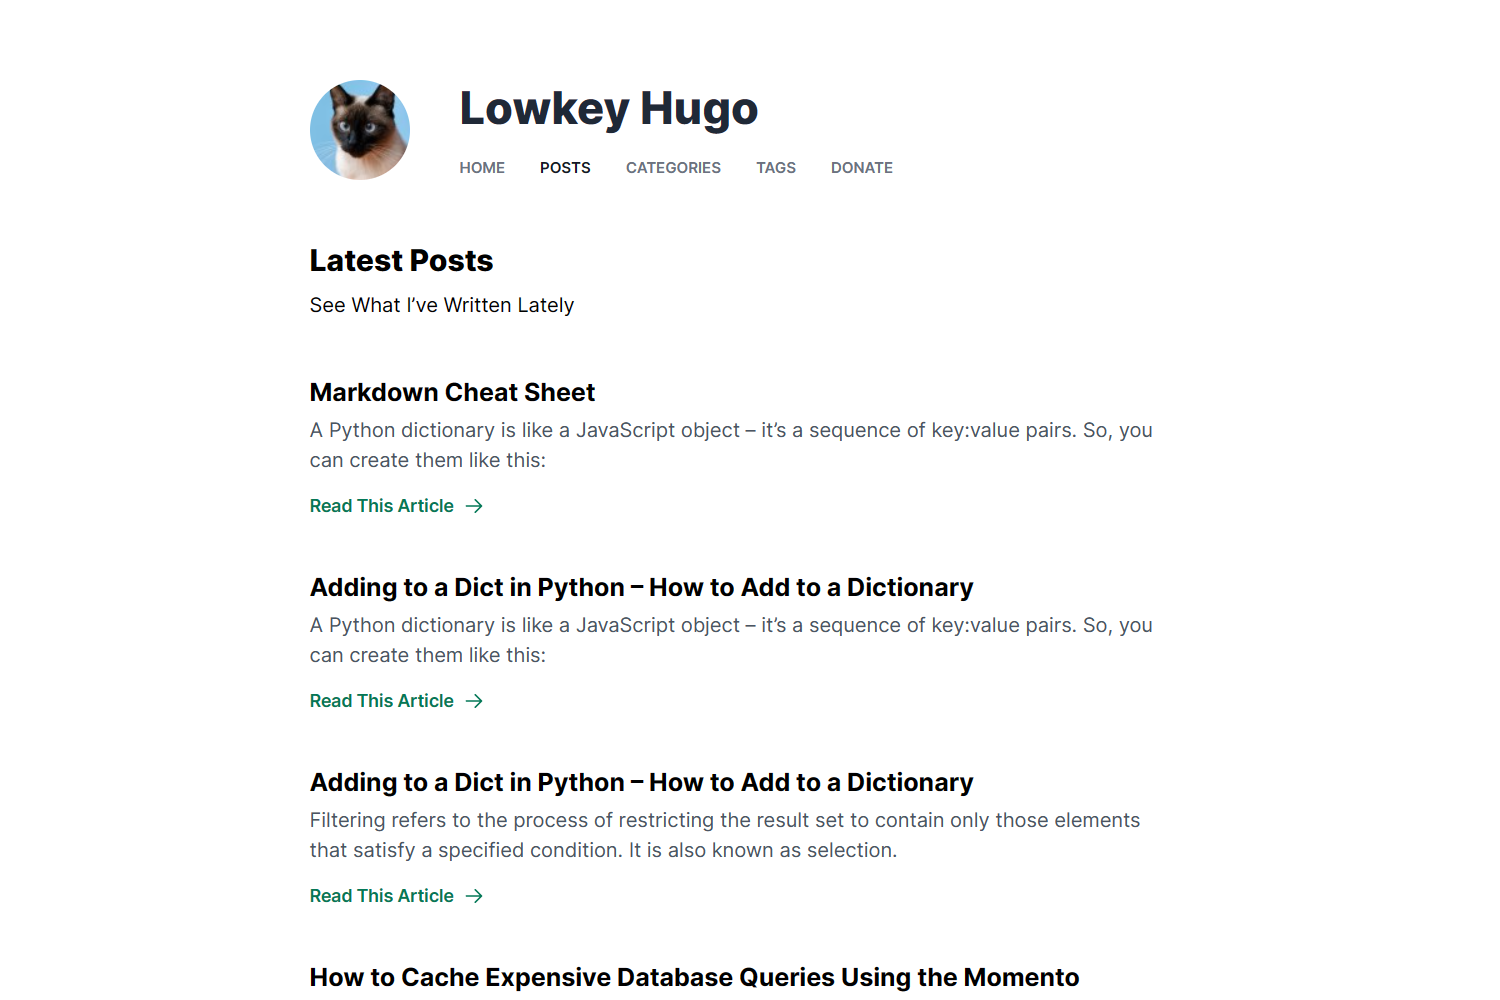
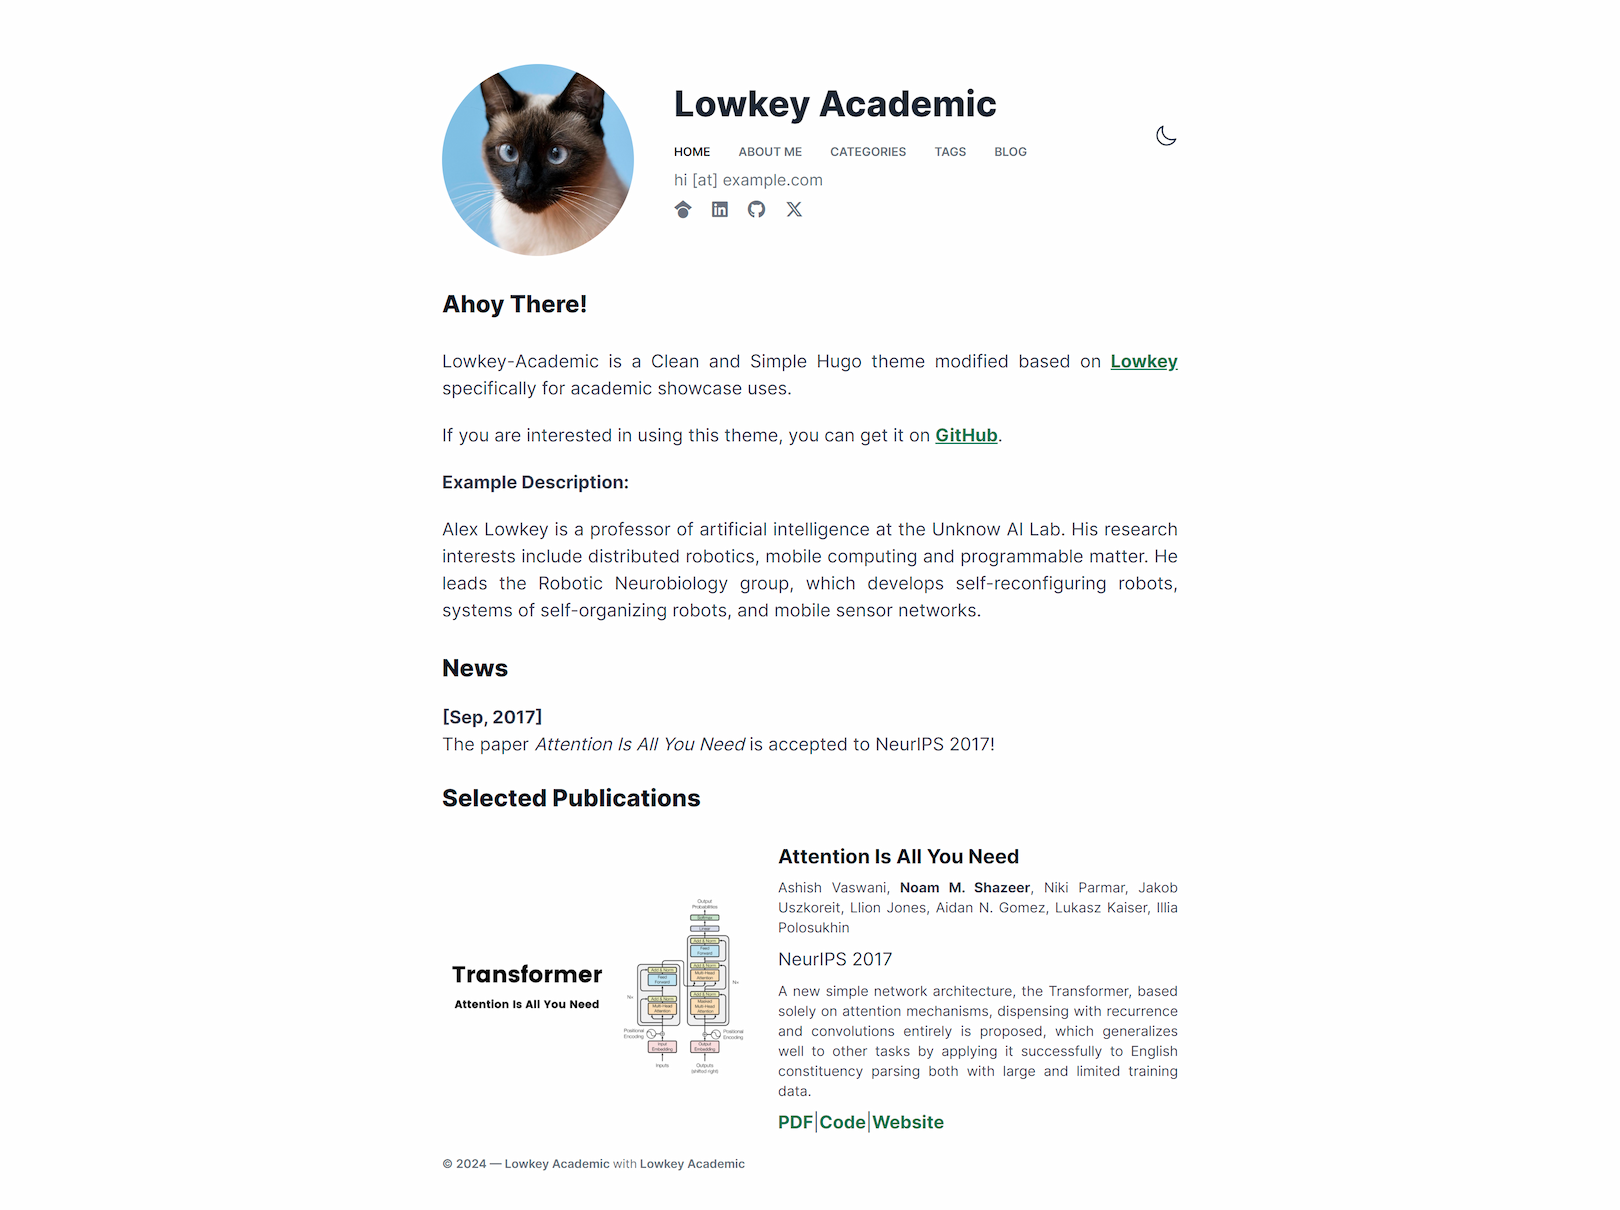
chore: add demo site & readme

diff --git a/ExampleSite/content/blog/markdown-cheat-sheet/index.md b/ExampleSite/content/blog/markdown-cheat-sheet/index.md
@@ -1,0 +1,190 @@
+---
+title: "Markdown Cheat Sheet"
+draft: false
+date: 2022-08-27T09:16:45.000Z
+description: "Markdown is a powerful tool for creating rich text using a plain text editor. This cheatsheet is a quick reference for Markdown syntax."
+categories:
+  - Hello
+tags:
+  - Hello
+  - WhatsApp
+---
+
+This Markdown cheat sheet **provides** a quick overview of all the Markdown syntax elements. It can’t cover every edge case, so if you need more information about any of these elements, refer to the reference guides for basic _syntax_ and extended syntax.
+
+# Headings
+
+---
+
+# Heading 1
+
+## Heading 2
+
+### Heading 3
+
+#### Heading 4
+
+##### Heading 5
+
+###### Heading 6
+
+# Emphasis
+
+---
+
+Emphasis, aka italics, with asterisks or underscores. **Strong emphasis**, aka bold, with asterisks or underscores. Combined emphasis with asterisks and underscores. ~~Strikethrough~~ with two tildes. **_Bold and nested italic_**. **_All bold and italic_**. **_*Bold and italic nested*_**.
+
+# Images
+
+---
+
+{{< img
+  src="cat.jpg"
+  alt="Cat"
+  caption="This is the default position of a figcaption, but it can be centered or at the end." >}}
+
+# Lists
+
+---
+
+## Ordered:
+
+1. First ordered list item
+2. Another item
+3. Actual numbers don't matter, just that it's a number
+   1. 1st.
+   1. 2nd.
+   1. 3rd.
+
+## Unordered:
+
+- This is a list item
+  - This is a nested list item
+    - This is a nested list item
+  - This is another list item
+- This is another list item
+
+## Task:
+
+{{< task-list >}}
+
+- [x] Write the press release
+- [ ] Update the website
+- [ ] Contact the media
+
+# Links
+
+---
+
+[This is a link](https://www.example.com).
+
+[This link](https://www.example.com "Link Title") has a title attribute.
+
+# Tables
+
+---
+
+| Syntax    | Description |
+| --------- | ----------- |
+| Header    | Title       |
+| Paragraph | Text        |
+
+# Blockquotes
+
+---
+
+> Blockquotes are very handy in email to emulate reply text. This line is part of the same quote.
+
+You can reference a footnote like this.
+
+> All generalizations are false, including this one. — Mark Twain. [^1]
+
+[^1]: https://www.brainyquote.com/quotes/mark_twain_137872.
+
+# Code
+
+---
+
+Inline `code` has `back-ticks around` it.
+
+```javascript
+var s = "JavaScript syntax highlighting";
+alert(s);
+```
+
+```python
+s = "Python syntax highlighting"
+print(s)
+```
+
+```plain
+No language indicated, so no syntax highlighting.
+But let's throw in a <b>tag</b>.
+```
+
+You can remove line numbers, change the highlighting theme, and more. See [Syntax Highlighting](https://gohugo.io/content-management/syntax-highlighting/) and [Highlight](https://gohugo.io/getting-started/configuration-markup/#highlight/).
+
+```c {lineNos=false}
+#include <stdio.h>
+
+int main()
+{
+    printf("Hello, World!\n");
+    return 0;
+}
+```
+
+# Alerts
+
+---
+
+{{< alert info "Optional title" >}}
+This is an info alert.
+{{< /alert >}}
+
+{{< alert warning "Optional title" >}}
+This is a warning alert.
+{{< /alert >}}
+
+{{< alert error "Optional title" >}}
+This is an error alert.
+{{< /alert >}}
+
+{{< alert success "Optional title" >}}
+This is a success alert.
+{{< /alert >}}
+
+# Math
+
+---
+
+You can use LaTeX-style math with `$` and `$$` delimiters. For example, `$x^2$` renders as $x^2$, and `$$\frac{x}{y}$$` renders as: $$\frac{x}{y}$$
+
+We can throw this scary-looking equation at you:
+
+$$
+\frac{1}{\Bigl(\sqrt{\phi \sqrt{5}}-\phi\Bigr) e^{\frac25 \pi}} = 1+\frac{e^{-2\pi}} {1+\frac{e^{-4\pi}} {1+\frac{e^{-6\pi}} {1+\frac{e^{-8\pi}} {1+\ldots} } } }
+$$
+
+# Horizontal Rules
+
+---
+
+Three or more... Hyphens `---`, Asterisks `***`, or Underscores `___`.
+
+---
+
+---
+
+---
+
+# Miscellaneous
+
+---
+
+Tailwind lets you conditionally apply utility classes in different states using variant modifiers. For example, use `hover:scroll-auto` to only ~~The world is flat.~~
+apply the scroll-auto utility on hover.
+
+term
+: definition
+: another definition

diff --git a/README.md b/README.md
@@ -1,1 +1,27 @@
 # Lowkey Academic
+
+![Lowkey Academic](hhttps://github.com/xslingcn/Lowkey-Academic-Hugo/blob/main/images/screenshot.png?raw=true)
+
+Lowkey-Academic is a Clean and Simple Hugo theme modified based on [Lowkey](https://github.com/nixentric/Lowkey-Hugo-Theme) specifically for academic showcase uses.
+
+See demo [here](https://lowkey-academic.netlify.app/).
+
+## Installation
+
+Inside the folder of your Hugo site run:
+
+```bash
+git submodule add https://github.com/xslingcn/Lowkey-Academic-Hugo.git themes/lowkey-academic
+```
+
+Copy everything in the `exampleSite` folder to the root of your hugo site, then run `hugo serve`. Your site with `Lowkey Academic` enabled should be accessible in http://localhost:1313/.
+
+For more information about Hugo, please visit [Hugo's site](https://gohugo.io).
+
+## Configuration
+
+All configuration could be done in `config.yml`. Everything in the config file should be self-explanatory.
+
+## Licence
+
+Great thanks to [nixentric](https://github.com/nixentric) who made the amazing [Lowkey](https://github.com/nixentric/Lowkey-Hugo-Theme) theme. Vno Hugo is followed with Vno Jekyll/Uno and be licensed as [Creative Commons Attribution 4.0 International](http://creativecommons.org/licenses/by/4.0/). See the link for more information.

diff --git a/ExampleSite/content/about/_index.md b/ExampleSite/content/about/_index.md
@@ -1,12 +1,6 @@
 ---
-title: "Ahoy There!"
+title: "About Me"
 draft: false
 ---
-
-Lowkey-Academic is a Clean and Simple Hugo theme modified based on [Lowkey](https://github.com/nixentric/Lowkey-Hugo-Theme) specifically for academic showcase uses.
-
-If you are interested in using this theme, you can get it on [GitHub](https://github.com/xslingcn/Lowkey-Academic-Hugo).
-
-**Example Description:**
 
 Alex Lowkey is a professor of artificial intelligence at the Unknow AI Lab. His research interests include distributed robotics, mobile computing and programmable matter. He leads the Robotic Neurobiology group, which develops self-reconfiguring robots, systems of self-organizing robots, and mobile sensor networks.

diff --git a/ExampleSite/content/news/2017-09-04-nips/index.md b/ExampleSite/content/news/2017-09-04-nips/index.md
@@ -1,6 +1,6 @@
 ---
 type: news
-title: "Attention Is All You Need"
+title: "Attention Is All You Need just got Accepted!"
 draft: false
 date: 2017-09-04T09:16:45.000Z
 categories:
@@ -8,4 +8,5 @@ categories:
 tags:
   - Machine Learning
 ---
+
 The paper _Attention Is All You Need_ is accepted to NeurIPS 2017!

diff --git a/ExampleSite/content/blog/_index.md b/ExampleSite/content/blog/_index.md
@@ -1,0 +1,6 @@
+---
+title: "Blog"
+header: "Latest Posts" # Optional
+---
+
+See What I’ve Written Lately
